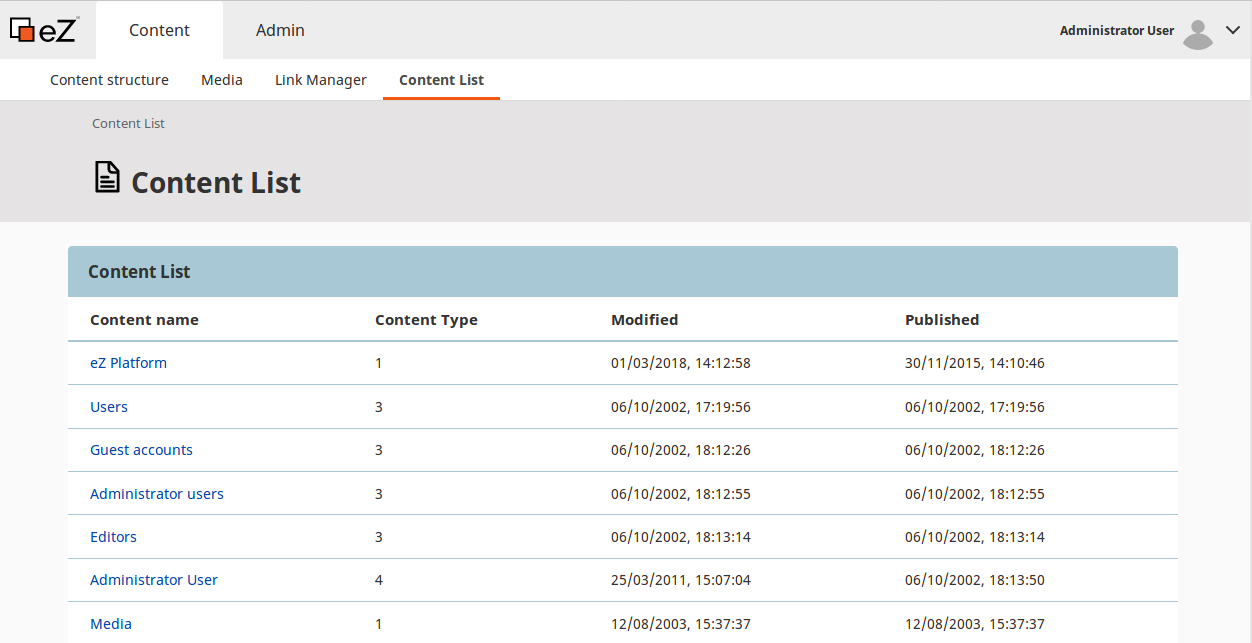
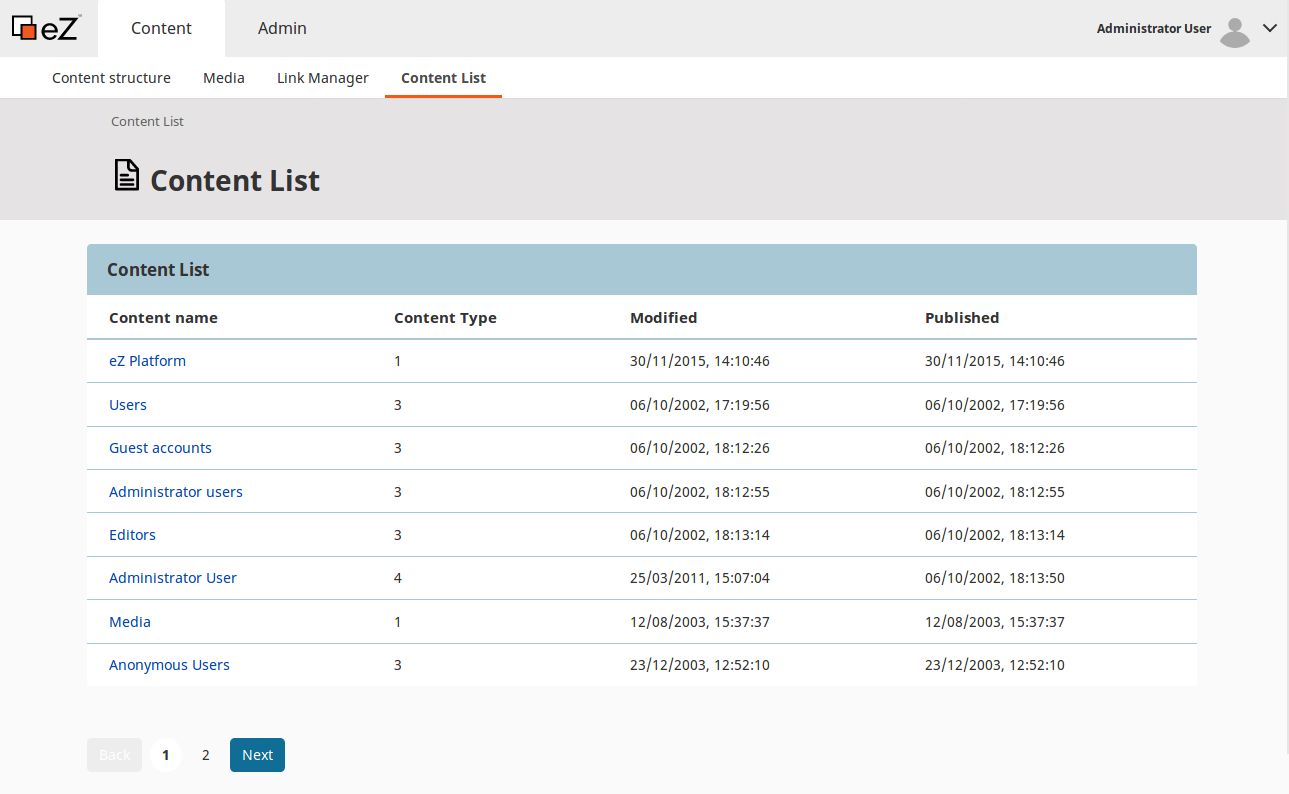
Update step 3 with pagination

diff --git a/docs/tutorials/extending_admin_ui/3_creating_a_content_list.md b/docs/tutorials/extending_admin_ui/3_creating_a_content_list.md
@@ -68,10 +68,11 @@ Line 28 points to the new route that you need to add to the routing file.
 
 Add the following block to `src/EzSystems/ExtendingTutorialBundle/Resources/config/routing.yml`:
 
-``` yaml hl_lines="4"
+``` yaml hl_lines="5"
 ezsystems_extending_tutorial.all_content_list.list:
-    path: /all_content_list
+    path: /all_content_list/{page}
     defaults:
+        page: 1
         _controller: 'EzSystemsExtendingTutorialBundle:AllContentList:list'
 ```
 
@@ -93,16 +94,18 @@ EzSystems\ExtendingTutorialBundle\Controller\:
 
 Then, in `src/EzSystems/ExtendingTutorialBundle/Controller` create a `AllContentListController.php` file:
 
-```php hl_lines="33"
+```php hl_lines="41"
 <?php
 
 namespace EzSystems\ExtendingTutorialBundle\Controller;
 
-use Symfony\Bundle\FrameworkBundle\Controller\Controller;
+use EzSystems\EzPlatformAdminUiBundle\Controller\Controller;
 use eZ\Publish\API\Repository\SearchService;
 use eZ\Publish\API\Repository\ContentTypeService;
 use eZ\Publish\API\Repository\Values\Content\Query\Criterion;
 use eZ\Publish\API\Repository\Values\Content\LocationQuery;
+use eZ\Publish\Core\Pagination\Pagerfanta\LocationSearchAdapter;
+use Pagerfanta\Pagerfanta;
 
 class AllContentListController extends Controller
 {
@@ -116,24 +119,31 @@ class AllContentListController extends Controller
         $this->contentTypeService = $contentTypeService;
     }
 
-    public function listAction()
+    public function listAction($page = 1)
     {
         $query = new LocationQuery();
 
-        $query->query = new Criterion\LogicalAnd([
+        $criterions = [
             new Criterion\Visibility(Criterion\Visibility::VISIBLE),
-        ]);
+        ];
 
-        $results = $this->searchService->findLocations($query);
+        $query->query = new Criterion\LogicalAnd($criterions);
+
+        $paginator = new Pagerfanta(
+            new LocationSearchAdapter($query, $this->searchService)
+        );
+        $paginator->setMaxPerPage(8);
+        $paginator->setCurrentPage($page);
 
         return $this->render('@EzSystemsExtendingTutorial/list/all_content_list.html.twig', [
-            'articles' => $results,
+            'totalCount' => $paginator->getNbResults(),
+            'articles' => $paginator,
         ]);
     }
 }
 ```
 
-The highlighted line 33 indicates the template that will be used to display the list.
+The highlighted line 41 indicates the template that will be used to display the list.
 
 ## Add a template
 
@@ -158,7 +168,7 @@ Finally, create an `all_content_list.html.twig` file in `src/EzSystems/Extending
 {%- endblock -%}
 
 {%- block content -%}
-    <section class="container mt-4">
+    <section class="container my-4">
         <div class="ez-table-header">
             <div class="ez-table-header__headline">{{ "Content List"|trans }}</div>
         </div>
@@ -172,16 +182,17 @@ Finally, create an `all_content_list.html.twig` file in `src/EzSystems/Extending
                 </tr>
             </thead>
             <tbody>
-            {% for article in articles.searchHits %}
+            {% for article in articles %}
                 <tr>
-                    <td><a href={{path('ez_urlalias', {'contentId': article.valueObject.contentInfo.id})}}>{{ ez_content_name(article.valueObject.contentInfo) }}</a></td>
-                    <td>{{ article.valueObject.contentInfo.contentTypeId }}</td>
-                    <td>{{ article.valueObject.contentInfo.modificationDate|localizeddate( 'short', 'medium' ) }}</td>
-                    <td>{{ article.valueObject.contentInfo.publishedDate|localizeddate( 'short', 'medium' ) }}</td>
+                    <td><a href={{path('ez_urlalias', {'contentId': article.contentInfo.id})}}>{{ ez_content_name(article.contentInfo) }}</a></td>
+                    <td>{{ article.contentInfo.contentTypeId }}</td>
+                    <td>{{ article.contentInfo.modificationDate|localizeddate( 'short', 'medium' ) }}</td>
+                    <td>{{ article.contentInfo.publishedDate|localizeddate( 'short', 'medium' ) }}</td>
                 </tr>
             {% endfor %}
             </tbody>
         </table>
+        {{ pagerfanta(articles, 'ez') }}
     </section>
 {%- endblock -%}
 ```
